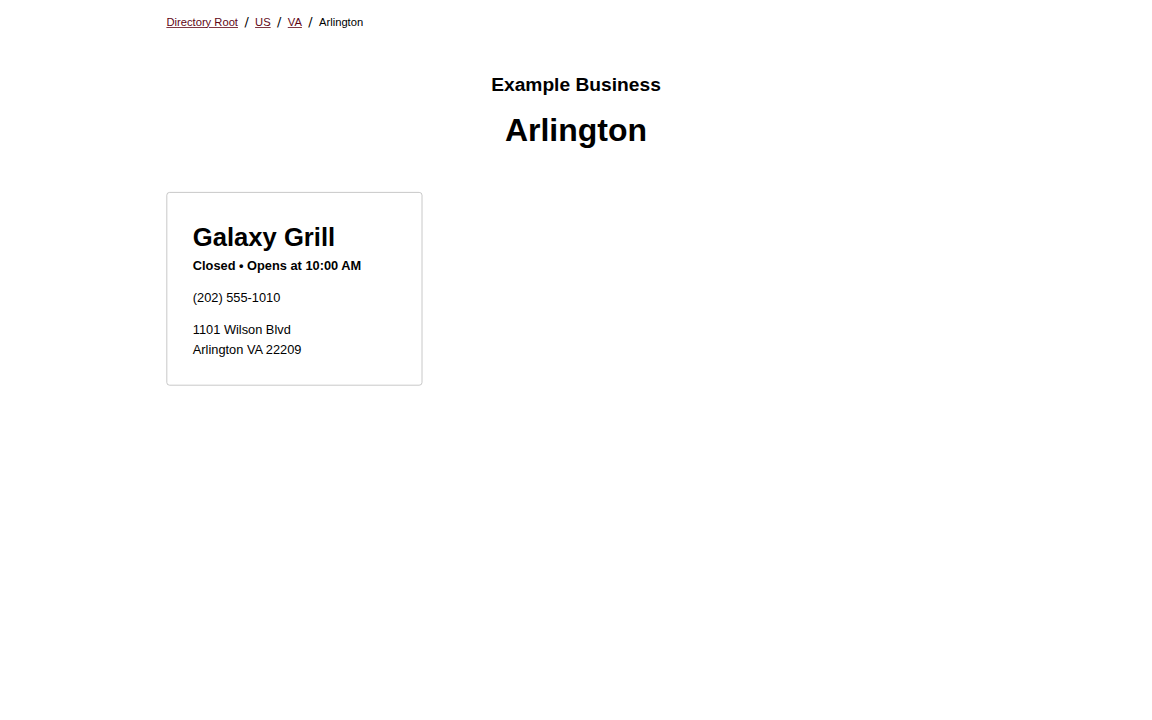
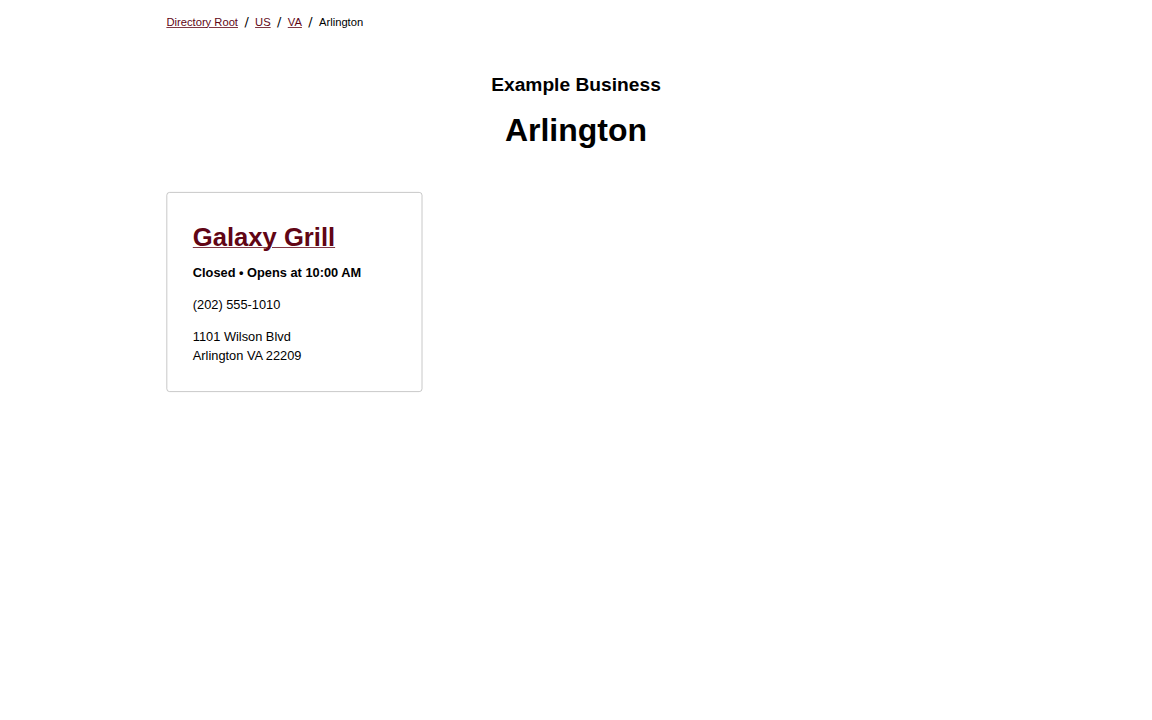
fix: use shared getPath for Directory/Locator/NearbyLocations links (#615)
test site:
https://www.yext.com/s/4259018/yextsites/159383/pagesets?focus=locations

---------

Changed region(s): [[0.1562, 0.3056, 0.3125, 0.5194]]

diff --git a/packages/visual-editor/src/components/pageSections/NearbyLocations.tsx b/packages/visual-editor/src/components/pageSections/NearbyLocations.tsx
@@ -18,14 +18,17 @@ import {
   resolveTranslatableString,
   msg,
   ThemeOptions,
-  useTemplateProps,
   MaybeLink,
+  getLocationPath,
+  useTemplateProps,
 } from "@yext/visual-editor";
 import { useQuery } from "@tanstack/react-query";
 import {
   Address,
   Coordinate,
   AnalyticsScopeProvider,
+  HoursType,
+  AddressType,
 } from "@yext/pages-components";
 import * as React from "react";
 import { useTranslation } from "react-i18next";
@@ -216,19 +219,22 @@ const LocationCard = ({
   address,
   timezone,
   mainPhone,
-  relativePrefixToRoot,
+  id,
   slug,
 }: {
   cardNumber: number;
   styles: NearbyLocationsSectionProps["styles"];
   name: string;
-  hours: any;
-  address: any;
+  hours: HoursType;
+  address: AddressType;
   timezone: string;
   mainPhone: string;
-  relativePrefixToRoot?: string;
+  id: string;
   slug?: string;
 }) => {
+  const { relativePrefixToRoot } = useTemplateProps();
+  const { i18n } = useTranslation();
+
   return (
     <Background
       background={styles?.cards.backgroundColor}
@@ -239,7 +245,11 @@ const LocationCard = ({
         eventName={`link${cardNumber}`}
         alwaysHideCaret={true}
         className="mb-2"
-        href={relativePrefixToRoot && slug ? relativePrefixToRoot + slug : slug}
+        href={getLocationPath(
+          { address, slug, id },
+          i18n.language,
+          relativePrefixToRoot
+        )}
       >
         <Heading
           level={styles?.cards.headingLevel}
@@ -295,7 +305,6 @@ const NearbyLocationsComponent: React.FC<NearbyLocationsSectionProps> = ({
 }: NearbyLocationsSectionProps) => {
   const document = useDocument<any>();
   const { i18n } = useTranslation();
-  const { relativePrefixToRoot } = useTemplateProps<any>();
   const coordinate = resolveYextEntityField<Coordinate>(
     document,
     data?.coordinate
@@ -344,6 +353,8 @@ const NearbyLocationsComponent: React.FC<NearbyLocationsSectionProps> = ({
           longitude: coordinate?.longitude || 0,
           radiusMi: data?.radius,
           limit: data?.limit,
+          locale: i18n.language,
+          currentLocationId: document.id,
         });
       },
       enabled:
@@ -384,12 +395,12 @@ const NearbyLocationsComponent: React.FC<NearbyLocationsSectionProps> = ({
                     key={index}
                     cardNumber={index}
                     styles={styles}
+                    id={location.id}
                     name={location.name}
                     address={location.address}
                     hours={location.hours}
                     timezone={location.timezone}
                     mainPhone={location.mainPhone}
-                    relativePrefixToRoot={relativePrefixToRoot}
                     slug={location.slug}
                   />
                 )

diff --git a/packages/visual-editor/src/components/Directory.tsx b/packages/visual-editor/src/components/Directory.tsx
@@ -14,6 +14,7 @@ import {
   BackgroundStyle,
   Background,
   HeadingLevel,
+  getLocationPath,
 } from "@yext/visual-editor";
 import { BreadcrumbsComponent } from "./pageSections/Breadcrumbs.tsx";
 import { ComponentConfig, Fields } from "@measured/puck";
@@ -22,6 +23,7 @@ import {
   AnalyticsScopeProvider,
   HoursStatus,
 } from "@yext/pages-components";
+import { useTranslation } from "react-i18next";
 
 export interface DirectoryProps {
   data: {
@@ -117,14 +119,15 @@ const sortAlphabetically = (directoryChildren: any[], sortBy: string) => {
 const DirectoryCard = ({
   cardNumber,
   profile,
-  relativePrefixToRoot,
   cardStyles,
 }: {
   cardNumber: number;
   profile: any;
-  relativePrefixToRoot: string;
   cardStyles: DirectoryProps["styles"]["cards"];
 }) => {
+  const { relativePrefixToRoot } = useTemplateProps();
+  const { i18n } = useTranslation();
+
   return (
     <Background
       className="h-full flex flex-col p-8 border border-gray-400 rounded gap-4"
@@ -135,11 +138,7 @@ const DirectoryCard = ({
           eventName={`link${cardNumber}`}
           alwaysHideCaret={true}
           className="mb-2"
-          href={
-            relativePrefixToRoot && profile.slug
-              ? relativePrefixToRoot + profile.slug
-              : profile.slug
-          }
+          href={getLocationPath(profile, i18n.language, relativePrefixToRoot)}
         >
           <Heading level={cardStyles.headingLevel} semanticLevelOverride={3}>
             {profile.name}
@@ -183,11 +182,9 @@ const DirectoryCard = ({
 // DirectoryGrid uses PageSection's theme config for styling.
 const DirectoryGrid = ({
   directoryChildren,
-  relativePrefixToRoot,
   cardStyles,
 }: {
   directoryChildren: any[];
-  relativePrefixToRoot: string;
   cardStyles: DirectoryProps["styles"]["cards"];
 }) => {
   const sortedDirectoryChildren = sortAlphabetically(directoryChildren, "name");
@@ -208,7 +205,6 @@ const DirectoryGrid = ({
           key={idx}
           cardNumber={idx}
           profile={child}
-          relativePrefixToRoot={relativePrefixToRoot}
           cardStyles={cardStyles}
         />
       ))}
@@ -302,7 +298,6 @@ const DirectoryComponent = ({ data, styles }: DirectoryProps) => {
         isDirectoryGrid(document.dm_directoryChildren) && (
           <DirectoryGrid
             directoryChildren={document.dm_directoryChildren}
-            relativePrefixToRoot={relativePrefixToRoot}
             cardStyles={styles.cards}
           />
         )}

diff --git a/packages/visual-editor/src/utils/getLocationPath.test.ts b/packages/visual-editor/src/utils/getLocationPath.test.ts
@@ -1,0 +1,89 @@
+import { describe, it, expect } from "vitest";
+import { getLocationPath } from "./getLocationPath.ts";
+
+describe("getLocationPath", () => {
+  it("returns slug paths", () => {
+    expect(
+      getLocationPath({ slug: "my-slug", id: "location1" }, "en", "")
+    ).toBe("my-slug");
+
+    expect(
+      getLocationPath({ slug: "my-slug", id: "location1" }, "es", "")
+    ).toBe("my-slug");
+
+    expect(
+      getLocationPath({ slug: "my-slug", id: "location1" }, "en", "../../")
+    ).toBe("../../my-slug");
+  });
+
+  it("returns address-based paths", () => {
+    expect(
+      getLocationPath(
+        {
+          address: {
+            line1: "1101 Wilson Blvd",
+            city: "Arlington",
+            region: "VA",
+            countryCode: "US",
+            postalCode: "22209",
+          },
+          id: "location1",
+        },
+        "en",
+        ""
+      )
+    ).toBe("va/arlington/1101-wilson-blvd-location1");
+
+    expect(
+      getLocationPath(
+        {
+          address: {
+            line1: "1101 Wilson Blvd",
+            city: "Arlington",
+            region: "VA",
+            countryCode: "US",
+            postalCode: "22209",
+          },
+          id: "location1",
+        },
+        "es",
+        ""
+      )
+    ).toBe("es/va/arlington/1101-wilson-blvd-location1");
+
+    expect(
+      getLocationPath(
+        {
+          address: {
+            line1: "1101 Wilson Blvd",
+            city: "Arlington",
+            region: "VA",
+            countryCode: "US",
+            postalCode: "22209",
+          },
+          id: "location1",
+        },
+        "en",
+        "../"
+      )
+    ).toBe("../va/arlington/1101-wilson-blvd-location1");
+  });
+
+  it("returns id-based paths", () => {
+    expect(getLocationPath({ id: "location1" }, "en", "")).toBe("location1");
+
+    expect(getLocationPath({ id: "location1" }, "es", "")).toBe("es/location1");
+
+    expect(getLocationPath({ id: "location1" }, "en", "../../../")).toBe(
+      "../../../location1"
+    );
+  });
+
+  it("handles empty values", () => {
+    // @ts-expect-error
+    expect(getLocationPath({}, {}, "")).toBe(undefined);
+
+    // @ts-expect-error
+    expect(getLocationPath(undefined, {}, "")).toBe(undefined);
+  });
+});

diff --git a/packages/visual-editor/src/components/Locator.tsx b/packages/visual-editor/src/components/Locator.tsx
@@ -35,11 +35,11 @@ import {
   createSearchHeadlessConfig,
   Heading,
   msg,
-  normalizeSlug,
   useDocument,
-  useTemplateProps,
   Toggle,
   YextField,
+  getLocationPath,
+  useTemplateProps,
 } from "@yext/visual-editor";
 import mapboxgl, { LngLat, LngLatBounds, MarkerOptions } from "mapbox-gl";
 import {
@@ -535,7 +535,9 @@ const LocatorMapPin: PinComponent<Record<string, unknown>> = (props) => {
 const LocationCard: CardComponent<Location> = ({
   result,
 }: CardProps<Location>): React.JSX.Element => {
-  const { t } = useTranslation();
+  const { t, i18n } = useTranslation();
+  const { document, relativePrefixToRoot } = useTemplateProps();
+
   const location = result.rawData;
   const distance = result.distance;
 
@@ -641,29 +643,20 @@ const LocationCard: CardComponent<Location> = ({
           </div>
         </div>
         <Button asChild className="basis-full" variant="primary">
-          <a href={getPath(location)} onClick={handleVisitPageClick}>
+          <a
+            href={getLocationPath(
+              location,
+              i18n.language,
+              relativePrefixToRoot
+            )}
+            onClick={handleVisitPageClick}
+          >
             {t("visitPage", "Visit Page")}
           </a>
         </Button>
       </div>
     </Background>
   );
-};
-
-const getPath = (location: Location) => {
-  const { document, relativePrefixToRoot } = useTemplateProps<any>();
-
-  if (location.slug) {
-    return `${relativePrefixToRoot ?? ""}${location.slug}`;
-  }
-
-  const locale = document.locale || "en";
-  const localePath = locale !== "en" ? `${locale}/` : "";
-  const path = location.address
-    ? `${localePath}${location.address.region}/${location.address.city}/${location.address.line1}-${location.id}`
-    : `${localePath}${location.id}`;
-
-  return `${relativePrefixToRoot ?? ""}${normalizeSlug(path)}`;
 };
 
 const getEntityType = (entityTypeEnvVar?: string) => {

diff --git a/packages/visual-editor/src/utils/getLocationPath.ts b/packages/visual-editor/src/utils/getLocationPath.ts
@@ -1,0 +1,29 @@
+import { normalizeSlug } from "./slugifier.ts";
+import { AddressType } from "@yext/pages-components";
+
+interface LocationDocument extends Record<string, any> {
+  slug?: string;
+  id: string;
+  address?: AddressType;
+}
+
+export const getLocationPath = (
+  location: LocationDocument,
+  locale: string,
+  relativePrefixToRoot: string | undefined
+): string | undefined => {
+  if (!location || (!location.slug && !location.address && !location.id)) {
+    return;
+  }
+
+  if (location.slug) {
+    return `${relativePrefixToRoot ?? ""}${location.slug}`;
+  }
+
+  const localePath = locale !== "en" ? `${locale}/` : "";
+  const path = location.address
+    ? `${localePath}${location.address.region}/${location.address.city}/${location.address.line1}-${location.id}`
+    : `${localePath}${location.id}`;
+
+  return `${relativePrefixToRoot ?? ""}${normalizeSlug(path)}`;
+};

diff --git a/packages/visual-editor/src/utils/api/nearbyLocations.tsx b/packages/visual-editor/src/utils/api/nearbyLocations.tsx
@@ -9,6 +9,8 @@ export const fetchNearbyLocations = async ({
   longitude,
   radiusMi,
   limit,
+  locale,
+  currentLocationId,
 }: {
   businessId: string;
   apiKey: string;
@@ -18,6 +20,8 @@ export const fetchNearbyLocations = async ({
   latitude: number;
   radiusMi: number;
   limit: number;
+  locale: string;
+  currentLocationId: string;
 }): Promise<Record<string, any>> => {
   const url = new URL(
     `${contentDeliveryAPIDomain}/v2/accounts/${businessId}/content/${contentEndpointId}`
@@ -28,6 +32,8 @@ export const fetchNearbyLocations = async ({
     "yextDisplayCoordinate__geo",
     `(lat:${latitude},lon:${longitude},radius:${radiusMi},unit:mi)`
   );
+  url.searchParams.append("meta.locale", locale);
+  url.searchParams.append("id__neq", currentLocationId);
   if (limit) {
     url.searchParams.append("limit", limit.toString());
   }

diff --git a/packages/visual-editor/src/hooks/useDocument.tsx b/packages/visual-editor/src/hooks/useDocument.tsx
@@ -2,7 +2,9 @@ import * as React from "react";
 
 const TemplatePropsContext = React.createContext<any | undefined>(undefined);
 
-const useTemplateProps = <T,>(): T => {
+const useTemplateProps = <
+  T = { document: Record<string, any>; relativePrefixToRoot?: string },
+>(): T => {
   const context = React.useContext(TemplatePropsContext);
   if (!context) {
     throw new Error(

diff --git a/packages/visual-editor/src/utils/index.ts b/packages/visual-editor/src/utils/index.ts
@@ -49,3 +49,4 @@ export {
   msg,
   pt,
 } from "./i18nPlatform.ts";
+export { getLocationPath } from "./getLocationPath.ts";
